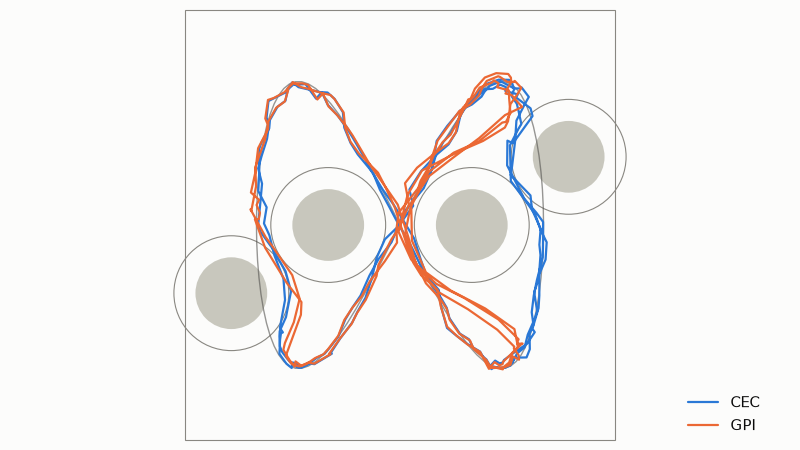
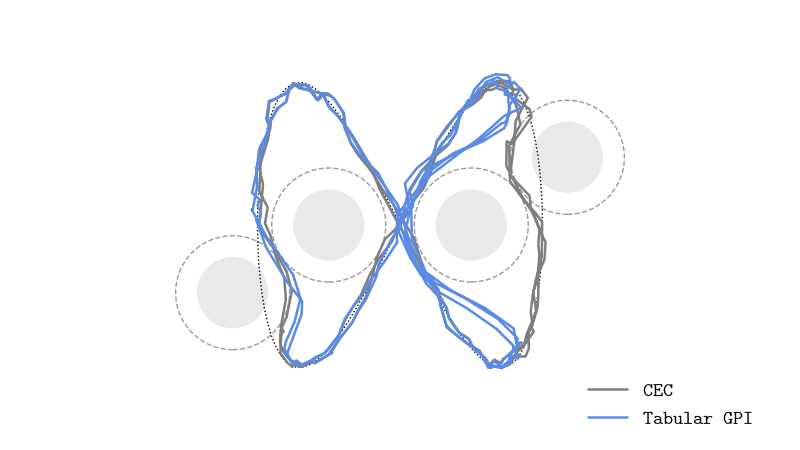
Blog post: restyle figures, replace value-function figure, drop callout boxes
Redraw every figure in a plain paper style (typewriter font, boxed axes,
dashed grid, blue for tabular GPI and grays for the others), replace the
heatmap-style value-function figure with line plots of the value across an
obstacle and during GPI, and turn the highlighted callout boxes into plain
bold sentences.

Changed region(s): [[0.2188, 0.1556, 0.7812, 0.84], [0.7188, 0.84, 0.9688, 0.9644]]

diff --git a/blog/safe-trajectory-tracking/index.html b/blog/safe-trajectory-tracking/index.html
@@ -108,18 +108,18 @@ V^*(\tau, e) = \min_\pi \ \mathbb E \Big[\sum_{t \ge \tau} \gamma^{t-\tau} \big(
   <b>Tracking and safety directly conflict in this corridor.</b>
 </p>
 <figure class="wide">
-  <img class="fig" src="assets/fig2_corridor_zoom.png" alt="Twenty noisy rollouts of CEC, GPI and RBF near the C1-C3 corridor">
-  <figcaption>The right lobe at noise ×1, 20 seeds. CEC always threads the corridor, GPI detours inside C3, and RBF threads the corridor but drifts far from the reference.</figcaption>
+  <img class="fig" src="assets/corridor.png" alt="Twenty noisy rollouts of CEC, GPI and RBF near the C1-C3 corridor">
+  <figcaption>The right lobe at noise ×1, 20 seeds. Dashed circles are the obstacles inflated by the robot radius, and the dotted curve is the reference. CEC always threads the corridor, GPI detours inside C3, and RBF threads the corridor but drifts far from the reference.</figcaption>
 </figure>
 <figure class="wide">
   <img src="assets/rollout_k1.gif" alt="Animated side-by-side rollouts of CEC, GPI and RBF on the same noise realization">
-  <figcaption>The same noise realization (×1, seed 0) for all three controllers. The gray triangle is the reference, and the ring around the robot turns red on collision.</figcaption>
+  <figcaption>The same noise realization (×1, seed 0) for all three controllers. The white triangle is the reference, and the ring around the robot turns black and bold on collision.</figcaption>
 </figure>
 
 <h2>Results</h2>
 <figure class="wide">
-  <img class="fig" src="assets/fig3_noise_sweep.png" alt="Tracking error, stage cost, collision probability and clearance versus noise scale">
-  <figcaption>Tracking error, stage cost (log scale), episode collision probability (Wilson 95% CI) and median minimum clearance versus noise scale. There are 200 paired seeds per point; noise ×0 is a single deterministic run. "GPI-detmodel" is the noise-free GPI model evaluated under noise.</figcaption>
+  <img class="fig" src="assets/noise_sweep.png" alt="Tracking error, collision rate and clearance versus noise scale">
+  <figcaption>Tracking error, episode collision rate (shaded: Wilson 95% interval) and median minimum clearance versus noise scale, with 200 paired seeds per point (noise ×0 is a single deterministic run).</figcaption>
 </figure>
 
 <h3>H1: without noise, CEC is the most accurate (supported, with a catch)</h3>
@@ -135,14 +135,14 @@ V^*(\tau, e) = \min_\pi \ \mathbb E \Big[\sum_{t \ge \tau} \gamma^{t-\tau} \big(
 </p>
 
 <h3>H2: CEC's safety does not degrade gradually; it breaks at once (supported, and stronger)</h3>
-<div class="statement">At the smallest noise tested (σ<sub>xy</sub> = 1 cm), 200 of 200 CEC episodes collide.</div>
 <p>
+  <b>At the smallest noise tested (σ<sub>xy</sub> = 1 cm), 200 of 200 CEC episodes collide.</b>
   The nominal optimum lies <i>on</i> an active constraint.
   Inside the corridors, CEC's plan sits within 1 mm of the boundary for 12–15 steps per episode, and after 48–52% of those steps the real robot ends up in collision: a coin flip, whatever the noise level.
   So collision <i>probability</i> does not go to zero as noise shrinks; only the <i>depth</i> does. The median minimum clearance is −1.7, −3.4, −7.1 and −15.8 cm at noise ×0.25, ×0.5, ×1 and ×2.
 </p>
 <figure>
-  <img class="fig" src="assets/fig5_collision_timing.png" alt="Histogram of collision times within the reference period">
+  <img class="fig" src="assets/collision_timing.png" alt="Collisions per episode over the figure-eight">
   <figcaption>When collisions happen (noise ×1, all seeds): almost entirely where the reference runs through the inflated C1 and C2 (shaded).</figcaption>
 </figure>
 <p>
@@ -181,8 +181,8 @@ V^*(\tau, e) = \min_\pi \ \mathbb E \Big[\sum_{t \ge \tau} \gamma^{t-\tau} \big(
   <tr><td>yes</td><td>1 cm</td><td>97.5%</td><td>3.35</td></tr>
   <tr><td>no</td><td>1 cm</td><td>98.5%</td><td>3.81</td></tr>
 </table></div>
-<div class="statement">The transition noise does nothing measurable (p = 0.39). The calibrated collision probability does everything (p ≈ 10⁻³⁵).</div>
 <p>
+  <b>The transition noise does nothing measurable (p = 0.39); the calibrated collision probability does everything (p ≈ 10⁻³⁵).</b>
   With 10 cm grid cells and 4 cm of noise, averaging the noise over a piecewise-linear value barely changes it.
   What matters is that the one-step collision penalty uses the <i>true</i> noise level, and that dynamic programming propagates that penalty backward in time.
   It is a different mechanism from the one H3 names, and it points to a fairer comparison: give CEC the same calibrated risk term.
@@ -197,7 +197,7 @@ V^*(\tau, e) = \min_\pi \ \mathbb E \Big[\sum_{t \ge \tau} \gamma^{t-\tau} \big(
   So in-corridor margin matters as much as route choice.
 </p>
 <figure>
-  <img class="fig" src="assets/fig8_frontier_k1.png" alt="Collision steps versus stage cost for CEC margins and GPI penalties">
+  <img class="fig" src="assets/frontier.png" alt="Collision steps versus stage cost for CEC margins and GPI penalties">
   <figcaption>What each method pays for safety at noise ×1. Sweeping GPI's collision penalty λ (10 to 10⁴) traces a trade-off curve, ending at zero collisions (even along the continuous path) at λ = 10⁴. The CEC variants with 5 and 10 cm margins are strictly dominated. The 0 and 2.5 cm margins are cheaper than any GPI point but have 3.6–5.7× more collision steps than GPI at λ = 10.</figcaption>
 </figure>
 
@@ -217,18 +217,18 @@ V^*(\tau, e) = \min_\pi \ \mathbb E \Big[\sum_{t \ge \tau} \gamma^{t-\tau} \big(
   And the fine grid costs 3.5× more offline than the medium grid for the same closed-loop behavior.
 </p>
 <figure class="wide">
-  <img class="fig" src="assets/fig7_compute.png" alt="Online compute time per controller and offline cost versus grid size">
+  <img class="fig" src="assets/compute.png" alt="Online compute time per controller, and offline time and memory versus grid size">
 </figure>
 
 <h3>H5: RBF saves memory and costs safety (supported, and the blur is global)</h3>
 <p>
   At 7.5× fewer stored parameters, the averager-RBF is less safe than the table at every non-zero noise level: 10% vs 0% collisions at ×0.25, 41% vs 5.5% at ×0.5, and 94% vs 37% at ×1.
-  Averaging spreads the large in-obstacle values into free space. The whole value function is lifted (the minimum over all nodes goes from 24 to 685), and the local difference between corridor and detour is erased.
+  The left panel below shows why: averaging spreads the large in-obstacle values into free space. The whole value function is lifted (the minimum over all nodes goes from 24 to 685), and the local difference between corridor and detour is erased.
   The blur is not confined to obstacle boundaries: even far from any obstacle, noise-free tracking error is 33 cm against the table's 1.5 cm.
 </p>
 <figure class="wide">
-  <img class="fig" src="assets/fig6_value_slices.png" alt="Value function slices for tabular, averager RBF, and least-squares RBF">
-  <figcaption>V(t = 20, ẽ<sub>x</sub>, ẽ<sub>y</sub>, θ̃ = 0), just before the robot reaches C1. Red circles are the inflated obstacles in error coordinates. The least-squares RBF (third panel) is negative almost everywhere; the black line is its zero contour.</figcaption>
+  <img class="fig" src="assets/value_rbf.png" alt="Value along a line through an obstacle, mean value during GPI, and collision rate, for tabular and RBF value functions">
+  <figcaption><b>Left:</b> the value along a line that crosses the inflated obstacle C1, just before the robot reaches it. The table jumps sharply at the obstacle edge; the averager smooths the edge away and lifts everything; least squares is negative. <b>Middle:</b> the mean value over GPI iterations. Least squares drops below zero at iteration 5 and stays there, although every cost is non-negative. <b>Right:</b> collision rate (least squares is omitted because it does not track the reference at all).</figcaption>
 </figure>
 <p>
   The plain least-squares RBF failed differently, and I think this is the most transferable lesson of the project.
@@ -236,8 +236,8 @@ V^*(\tau, e) = \min_\pi \ \mathbb E \Big[\sum_{t \ge \tau} \gamma^{t-\tau} \big(
   A least-squares projection is not a non-expansion (here \(\|\Pi\|_\infty \approx 10\)). Near the steep collision penalty the fit rings, and the greedy minimum picks exactly the points where the fit undershoots.
   With the policy held fixed, the same projection leaves only 11% of states negative. The greedy step is what amplifies the error.
   Switching to an averager, where every fitted value is a convex combination of targets, fixed it immediately.
+  A smooth fit blurs a value function; a non-contractive fit can quietly converge to the wrong fixed point.
 </p>
-<div class="statement">A smooth fit blurs a value function; a non-contractive fit can quietly converge to the wrong fixed point.</div>
 
 <h2>What actually decided the outcome</h2>
 <ol>

diff --git a/blog/safe-trajectory-tracking/post.css b/blog/safe-trajectory-tracking/post.css
@@ -2,13 +2,13 @@
 :root {
   --ink: #1f2328; --ink2: #52514e; --muted: #898781; --rule: #e1e0d9;
   --bg: #fdfdfd; --link: #2471a3; --link-hover: #f09228;
-  --box-edge: #598be7; --box-fill: #dee8fa; --code-bg: #f6f8fa;
+  --code-bg: #f6f8fa;
 }
 @media (prefers-color-scheme: dark) {
   :root:not([data-theme="light"]) {
     --ink: #e8e6e3; --ink2: #c3c2b7; --muted: #9a988f; --rule: #2c2c2a;
     --bg: #161615; --link: #6aa9e0; --link-hover: #f0a64a;
-    --box-edge: #598be7; --box-fill: #1b2740; --code-bg: #20201e;
+    --code-bg: #20201e;
   }
   :root:not([data-theme="light"]) img.fig { background: #fcfcfb; border-radius: 6px; }
 }
@@ -28,8 +28,6 @@ p { margin: 0 0 16px; }
 ul, ol { padding-left: 1.3em; }
 li { margin-bottom: 6px; }
 b, strong { font-weight: 700; }
-.statement { display: table; margin: 18px auto; padding: 10px 16px; font-weight: 700; text-align: center;
-  border: 2px solid var(--box-edge); background: var(--box-fill); border-radius: 10px; }
 figure { margin: 22px 0; }
 figure img, figure video { display: block; max-width: 100%; height: auto; margin: 0 auto; }
 figure.wide { margin-left: -60px; margin-right: -60px; }
